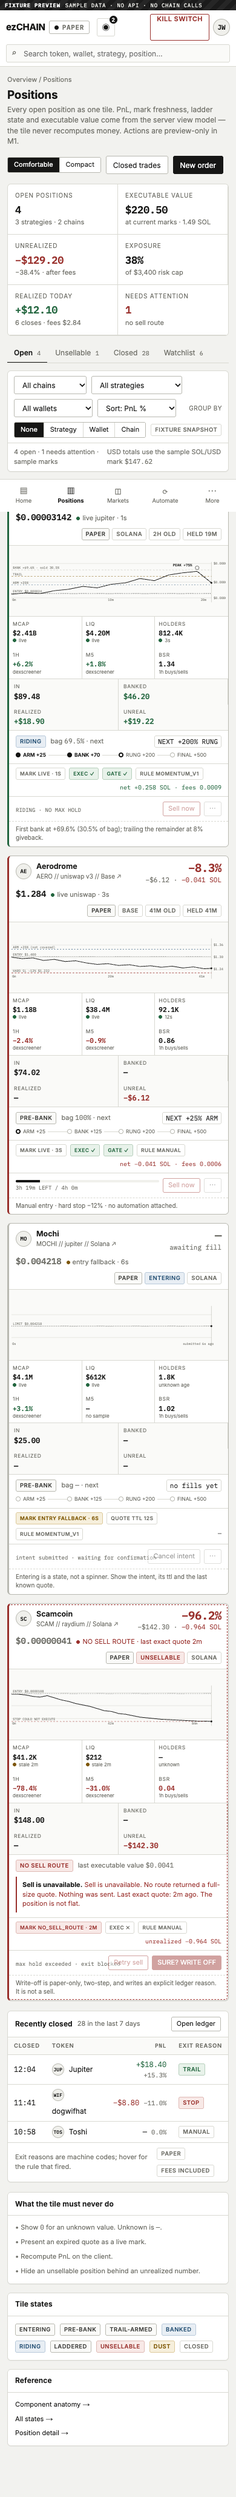
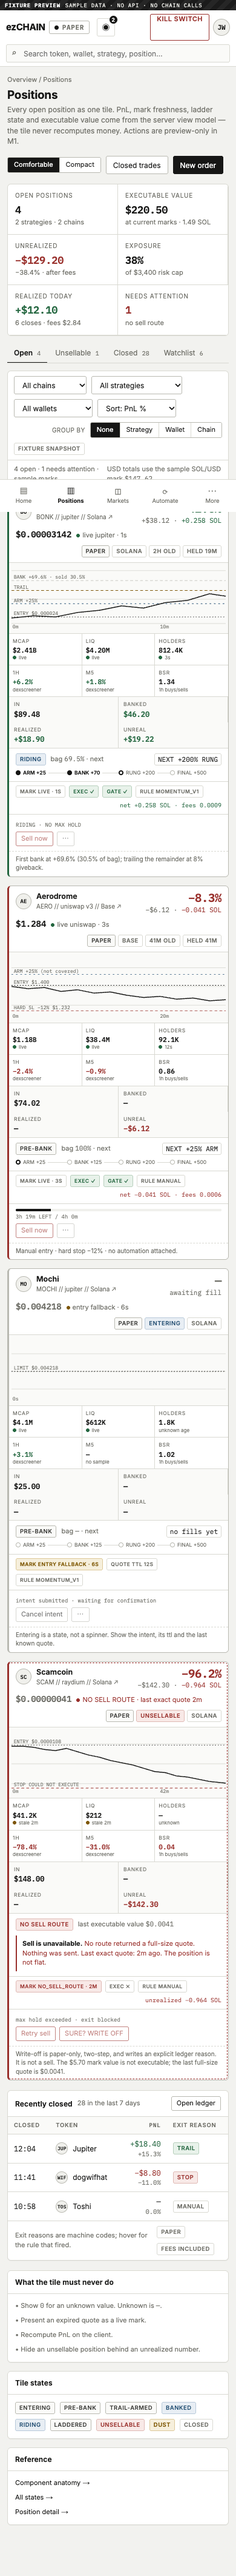
fix(web): tighten tile accessibility and responsive layout
Address the independent review: remove the duplicated unsellable sentence,
keep tile action captions from overflowing, widen the chart viewBox and
make the tile chart scroll on mobile, give the disabled controls readable
contrast and accessible names, keep the group-by control together, and
replace the misused tab roles with plain pressed buttons. Also link the
closed-row token and title the exit reason.

Refs: #8

Changed region(s): [[0.0308, 0.0, 0.9846, 0.9947], [0.9231, 0.0, 0.9538, 0.0311]]

diff --git a/apps/web/lib/position-fixtures.ts b/apps/web/lib/position-fixtures.ts
@@ -46,8 +46,6 @@ export interface PositionTileView {
 	name: string;
 	sub: string;
 	tone: TileTone;
-	state: string;
-	stateTone: "default" | "ok" | "err" | "warn" | "info";
 	pnlPct: string;
 	pnlUsd: string;
 	pnlSol?: string;
@@ -81,7 +79,7 @@ export interface PositionTileView {
 	budget:
 		| { kind: "bar"; width: string; cap: string }
 		| { kind: "text"; cap: string };
-	actions: { label: string; className: string; disabled?: boolean }[];
+	actions: { label: string; className: string; disabled?: boolean; ariaLabel?: string }[];
 	note: string;
 }
 
@@ -171,8 +169,6 @@ export const positionTiles: PositionTileView[] = [
 		name: "Bonk",
 		sub: "BONK // jupiter // Solana ↗",
 		tone: "win",
-		state: "RIDING",
-		stateTone: "info",
 		pnlPct: "+42.6%",
 		pnlUsd: "+$38.12",
 		pnlSol: "+0.258 SOL",
@@ -224,7 +220,7 @@ export const positionTiles: PositionTileView[] = [
 		budget: { kind: "text", cap: "RIDING · NO MAX HOLD" },
 		actions: [
 			{ label: "Sell now", className: "btn danger sm", disabled: true },
-			{ label: "⋯", className: "btn sm", disabled: true },
+			{ label: "⋯", className: "btn sm", disabled: true, ariaLabel: "More actions for Bonk" },
 		],
 		note: "First bank at +69.6% (30.5% of bag); trailing the remainder at 8% giveback.",
 	},
@@ -234,8 +230,6 @@ export const positionTiles: PositionTileView[] = [
 		name: "Aerodrome",
 		sub: "AERO // uniswap v3 // Base ↗",
 		tone: "loss",
-		state: "PRE-BANK",
-		stateTone: "default",
 		pnlPct: "−8.3%",
 		pnlUsd: "−$6.12",
 		pnlSol: "−0.041 SOL",
@@ -287,7 +281,7 @@ export const positionTiles: PositionTileView[] = [
 		budget: { kind: "bar", width: "17%", cap: "3h 19m LEFT / 4h 0m" },
 		actions: [
 			{ label: "Sell now", className: "btn danger sm", disabled: true },
-			{ label: "⋯", className: "btn sm", disabled: true },
+			{ label: "⋯", className: "btn sm", disabled: true, ariaLabel: "More actions for Aerodrome" },
 		],
 		note: "Manual entry · hard stop −12% · no automation attached.",
 	},
@@ -297,8 +291,6 @@ export const positionTiles: PositionTileView[] = [
 		name: "Mochi",
 		sub: "MOCHI // jupiter // Solana ↗",
 		tone: "flat",
-		state: "ENTERING",
-		stateTone: "info",
 		pnlPct: "—",
 		pnlUsd: "awaiting fill",
 		pnlTone: "muted",
@@ -343,12 +335,12 @@ export const positionTiles: PositionTileView[] = [
 			{ label: "mark entry fallback · 6s", tone: "warn" },
 			{ label: "quote ttl 12s", tone: "ghost" },
 			{ label: "rule momentum_v1", tone: "ghost" },
-			{ label: "—", className: "net" },
+			{ label: "", className: "net" },
 		],
 		budget: { kind: "text", cap: "intent submitted · waiting for confirmation" },
 		actions: [
 			{ label: "Cancel intent", className: "btn sm", disabled: true },
-			{ label: "⋯", className: "btn sm", disabled: true },
+			{ label: "⋯", className: "btn sm", disabled: true, ariaLabel: "More actions for Mochi" },
 		],
 		note: "Entering is a state, not a spinner. Show the intent, its ttl and the last known quote.",
 	},
@@ -358,8 +350,6 @@ export const positionTiles: PositionTileView[] = [
 		name: "Scamcoin",
 		sub: "SCAM // raydium // Solana ↗",
 		tone: "error",
-		state: "UNSELLABLE",
-		stateTone: "err",
 		pnlPct: "−96.2%",
 		pnlUsd: "−$142.30",
 		pnlSol: "−0.964 SOL",
@@ -395,7 +385,7 @@ export const positionTiles: PositionTileView[] = [
 			stateTone: "err",
 			lastExecutable: "$0.0041",
 			note:
-				"Sell is unavailable. No route returned a full-size quote. Nothing was sent. Last exact quote: 2m ago. The position is not flat.",
+				"No route returned a full-size quote. Nothing was sent. Last exact quote: 2m ago. The position is not flat.",
 		},
 		prov: [
 			{ label: "mark no_sell_route · 2m", tone: "err" },
@@ -406,15 +396,15 @@ export const positionTiles: PositionTileView[] = [
 		budget: { kind: "text", cap: "max hold exceeded · exit blocked" },
 		actions: [
 			{ label: "Retry sell", className: "btn danger sm", disabled: true },
-			{ label: "SURE? WRITE OFF", className: "btn armed sm", disabled: true },
+			{ label: "SURE? WRITE OFF", className: "btn armed sm", disabled: true, ariaLabel: "Write off Scamcoin, paper only" },
 		],
-		note: "Write-off is paper-only, two-step, and writes an explicit ledger reason. It is not a sell.",
+		note: "Write-off is paper-only, two-step, and writes an explicit ledger reason. It is not a sell. The $5.70 mark value is not executable; the last full-size quote is $0.0041.",
 	},
 ];
 
 export const positionsSummary = {
 	open: "4",
-	openMeta: "3 strategies · 2 chains",
+	openMeta: "2 strategies · 2 chains",
 	executableValue: "$220.50",
 	executableMeta: "at current marks · 1.49 SOL",
 	unrealized: "−$129.20",

diff --git a/apps/web/app/positions/page.tsx b/apps/web/app/positions/page.tsx
@@ -58,17 +58,17 @@ export default function PositionsPage() {
 				/>
 			</section>
 
-			<div className="tabs mb-12" role="tablist" aria-label="Position views">
-				<button className="tab on" type="button" role="tab" aria-selected="true">
+			<div className="tabs mb-12" aria-label="Position views">
+				<button className="tab on" type="button" aria-pressed="true" title="Showing open positions">
 					Open <span className="count">4</span>
 				</button>
-				<button className="tab" type="button" role="tab" aria-selected="false" title="Filter not wired in M1">
+				<button className="tab" type="button" aria-pressed="false" title="Filter not wired in M1">
 					Unsellable <span className="count">1</span>
 				</button>
-				<button className="tab" type="button" role="tab" aria-selected="false" title="Filter not wired in M1">
+				<button className="tab" type="button" aria-pressed="false" title="Filter not wired in M1">
 					Closed <span className="count">28</span>
 				</button>
-				<button className="tab" type="button" role="tab" aria-selected="false" title="Filter not wired in M1">
+				<button className="tab" type="button" aria-pressed="false" title="Filter not wired in M1">
 					Watchlist <span className="count">6</span>
 				</button>
 			</div>
@@ -106,22 +106,23 @@ export default function PositionsPage() {
 							<option>Sort: next level</option>
 						</select>
 					</span>
-					<span className="spacer" style={{ flex: 1 }} />
-					<span className="micro">Group by</span>
-					<div className="seg" role="group" aria-label="Group positions">
-						<button type="button" aria-pressed="true">
-							None
-						</button>
-						<button type="button" aria-pressed="false">
-							Strategy
-						</button>
-						<button type="button" aria-pressed="false">
-							Wallet
-						</button>
-						<button type="button" aria-pressed="false">
-							Chain
-						</button>
-					</div>
+					<span className="row" style={{ marginLeft: "auto" }}>
+						<span className="micro">Group by</span>
+						<div className="seg" role="group" aria-label="Group positions">
+							<button type="button" aria-pressed="true">
+								None
+							</button>
+							<button type="button" aria-pressed="false">
+								Strategy
+							</button>
+							<button type="button" aria-pressed="false">
+								Wallet
+							</button>
+							<button type="button" aria-pressed="false">
+								Chain
+							</button>
+						</div>
+					</span>
 					<span className="badge ghost">fixture snapshot</span>
 				</div>
 				<div className="table-foot">
@@ -165,24 +166,26 @@ export default function PositionsPage() {
 						</thead>
 						<tbody>
 							{closedPositions.map((row) => (
-								<tr className="rowlink" key={row.closed + row.symbol}>
+								<tr key={row.closed + row.symbol}>
 									<td className="mono">{row.closed}</td>
 									<td>
-										<span className="row">
+										<Link className="row" href="/ledger">
 											<TokenAvatar size="sm">{row.symbol}</TokenAvatar>
 											{row.name}
-										</span>
+										</Link>
 									</td>
 									<td className="col-hide-sm">{row.chain}</td>
 									<td className="col-hide-sm">{row.strategy}</td>
 									<td className="num col-hide-sm">{row.inUsd}</td>
 									<td className="num col-hide-sm">{row.outUsd}</td>
 									<td className={`num ${row.pnlTone}`}>
-										{row.pnl} <span className="sub">{row.pnlPct}</span>
+										{row.pnl} <span className="sub pnl-sub">{row.pnlPct}</span>
 									</td>
 									<td className="num col-hide-sm">{row.hold}</td>
 									<td>
-										<Badge tone={row.exitTone}>{row.exit}</Badge>
+										<Badge tone={row.exitTone} title={`Exit reason: ${row.exit}`}>
+											{row.exit}
+										</Badge>
 									</td>
 								</tr>
 							))}

diff --git a/apps/web/app/ui.css b/apps/web/app/ui.css
@@ -237,7 +237,8 @@ main { grid-row: 3; grid-column: 2; min-width: 0; padding: 20px 22px 48px; }
 .btn.sm { height: 24px; padding: 0 8px; font-size: 11px; }
 .btn.lg { height: 38px; padding: 0 16px; font-size: 13px; }
 .btn.block { width: 100%; }
-.btn:disabled { opacity: .45; cursor: not-allowed; }
+.btn:disabled { opacity: .6; cursor: not-allowed; }
+.btn.armed:disabled { background: var(--surface); color: var(--err); border-color: var(--err); }
 .btn-group { display: inline-flex; }
 .btn-group .btn { border-radius: 0; margin-left: -1px; }
 .btn-group .btn:first-child { border-radius: var(--r-sm) 0 0 var(--r-sm); margin-left: 0; }
@@ -400,7 +401,7 @@ table.table { width: 100%; border-collapse: collapse; font-size: 12px; }
 .tile-prov .net { margin-left: auto; font-size: 10px; font-family: var(--mono); }
 
 .tile-actions { padding: 8px 11px; display: flex; gap: 6px; align-items: center; }
-.budget { flex: 1 1 auto; min-width: 80px; }
+.budget { flex: 1 1 auto; min-width: 0; }
 .budget .bar { height: 4px; background: var(--surface-3); border-radius: 2px; overflow: hidden; }
 .budget .fill { height: 100%; background: var(--ink); width: 32%; }
 .budget .fill.warn { background: var(--warn); }
@@ -552,6 +553,10 @@ kbd { font: 10px var(--mono); border: 1px solid var(--line-2); border-bottom-wid
   .table.compact { min-width: 0; }
   .table .col-hide-sm { display: none; }
   .table-wrap { overscroll-behavior-x: contain; -webkit-overflow-scrolling: touch; }
+  .tile-actions { flex-wrap: wrap; }
+  .tile-actions .budget { flex: 1 1 100%; }
+  .budget .cap { white-space: normal; }
+  .tile-market .mcell:nth-child(-n + 3) { border-bottom: 1px solid var(--line); }
   .chart-scroll { overflow-x: auto; overscroll-behavior-x: contain; -webkit-overflow-scrolling: touch; }
   .chart-scroll .chart { min-width: 560px; }
   .mobile-nav {

diff --git a/apps/web/components/position-tile.tsx b/apps/web/components/position-tile.tsx
@@ -5,7 +5,7 @@ import type { PositionTileView, TileChart } from "@/lib/position-fixtures";
 function Chart({ chart }: { chart: TileChart }) {
 	return (
 		<div className="chart">
-			<svg viewBox="0 0 600 112" role="img">
+			<svg viewBox="0 0 616 112" role="img">
 				<title>{chart.ariaLabel}</title>
 				{chart.gridY.map((y) => (
 					<line className="gridline" x1="0" y1={y} x2="560" y2={y} key={`g${y}`} />
@@ -92,10 +92,12 @@ export function PositionTile({ position }: { position: PositionTileView }) {
 			</div>
 
 			<div className="tile-chart">
-				<Chart chart={position.chart} />
+				<div className="chart-scroll">
+					<Chart chart={position.chart} />
+				</div>
 			</div>
 
-			<div className="tile-market" aria-label="Market data">
+			<div className="tile-market" role="group" aria-label="Market data">
 				{position.market.map((cell) => (
 					<div className="mcell" key={cell.k}>
 						<div className="k">{cell.k}</div>
@@ -158,7 +160,7 @@ export function PositionTile({ position }: { position: PositionTileView }) {
 
 			<div className="tile-prov">
 				{position.prov.map((item) =>
-					item.className ? (
+					item.label === "" ? null : item.className ? (
 						<span className={item.className} key={item.label}>
 							{item.label}
 						</span>
@@ -189,6 +191,7 @@ export function PositionTile({ position }: { position: PositionTileView }) {
 						type="button"
 						key={action.label}
 						disabled={action.disabled}
+						aria-label={action.ariaLabel}
 						title={action.disabled ? "Execution is not wired in M1" : undefined}
 					>
 						{action.label}

diff --git a/apps/web/components/ui.tsx b/apps/web/components/ui.tsx
@@ -38,8 +38,20 @@ export function Panel({
 	);
 }
 
-export function Badge({ tone = "default", children }: { tone?: Tone; children: ReactNode }) {
-	return <span className={cx("badge", tone !== "default" && tone)}>{children}</span>;
+export function Badge({
+	tone = "default",
+	children,
+	title,
+}: {
+	tone?: Tone;
+	children: ReactNode;
+	title?: string;
+}) {
+	return (
+		<span className={cx("badge", tone !== "default" && tone)} title={title}>
+			{children}
+		</span>
+	);
 }
 
 export function Stat({
